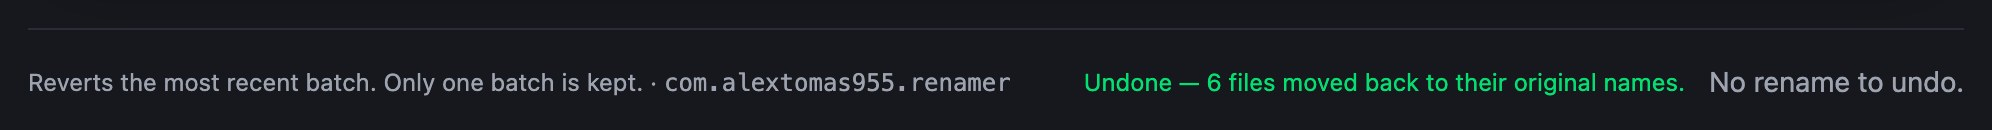
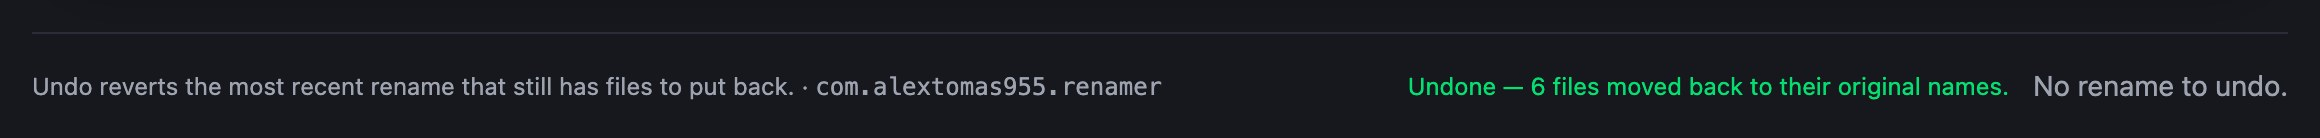
Renamer: make the undo note say what undo does (#340)
The note beside Undo last rename said only one batch is kept, which stopped being true once several
renames could wait to be undone. It now says undo reverts the most recent rename that still has files
to put back. The undo guide drops its warning about the old wording, and the two screenshots of the
footer are retaken.

Changed region(s): [[0.0, 0.5538, 0.996, 0.7385]]

diff --git a/extensions/Renamer/src/Renamer.Ui/src/settings/UndoSection.tsx b/extensions/Renamer/src/Renamer.Ui/src/settings/UndoSection.tsx
@@ -112,8 +112,8 @@ export function UndoSection({ refreshKey }: { refreshKey: number }) {
       className="flex flex-wrap items-center justify-between gap-3 border-t border-border pt-4"
     >
       <p className="text-xs text-secondary">
-        Reverts the most recent batch. Only one batch is kept. <span aria-hidden="true">·</span>{" "}
-        <span className="font-mono">{EXTENSION_ID}</span>
+        Undo reverts the most recent rename that still has files to put back.{" "}
+        <span aria-hidden="true">·</span> <span className="font-mono">{EXTENSION_ID}</span>
       </p>
 
       <div className="shrink-0">

diff --git a/extensions/Renamer/CHANGELOG.md b/extensions/Renamer/CHANGELOG.md
@@ -93,6 +93,8 @@ computed, which it could not before.
 - Undoing a text rename announces the right kind. The undo path published a video-updated event for
   every kind, so other parts of Cove watching for the change were told about the wrong sort of item.
   Nothing was renamed wrongly.
+- The note beside **Undo last rename** now says what undo does: it reverts the most recent rename
+  that still has files to put back. It used to say only one batch is kept, which was out of date.
 
 ## 0.4.0 — Undo you can retry, and one that survives the next rename
 

diff --git a/extensions/Renamer/docs/how-to/undo.md b/extensions/Renamer/docs/how-to/undo.md
@@ -40,8 +40,5 @@ The **Undo** link in the message after a rename takes you to the same place.
 - **Undo can't restore names from before Renamer.** It only reverses Renamer's own renames. To change
   your mind about a template later, pick a new one and rename again.
 
-The small note at the foot of the page says "Only one batch is kept". That describes an older version.
-Undo now behaves as described above.
-
 For the rare cases where undo cannot put everything back, see
 [Troubleshooting](../troubleshooting#undo).
